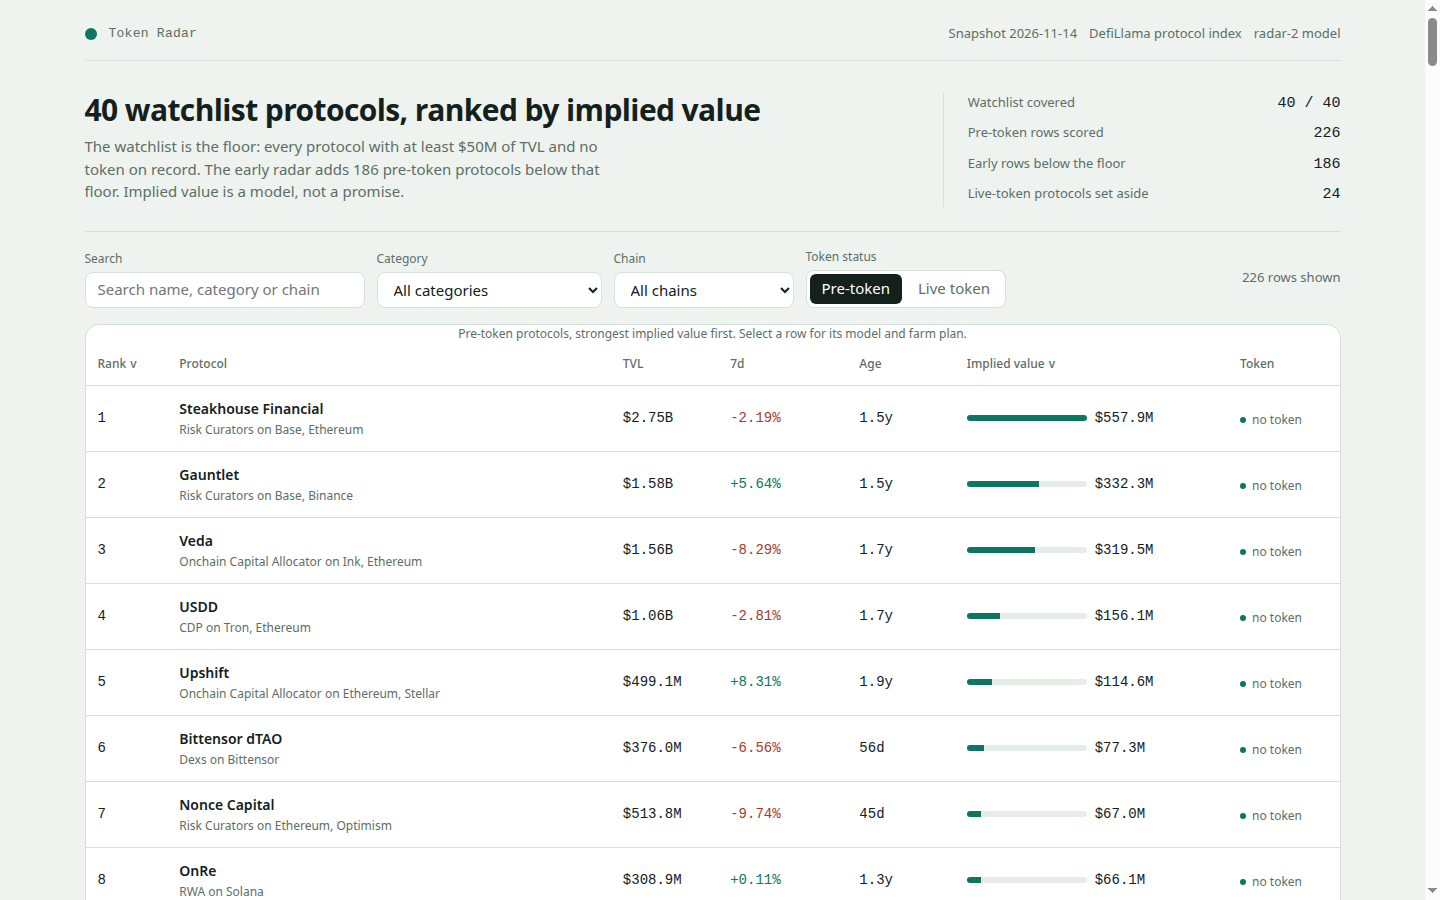
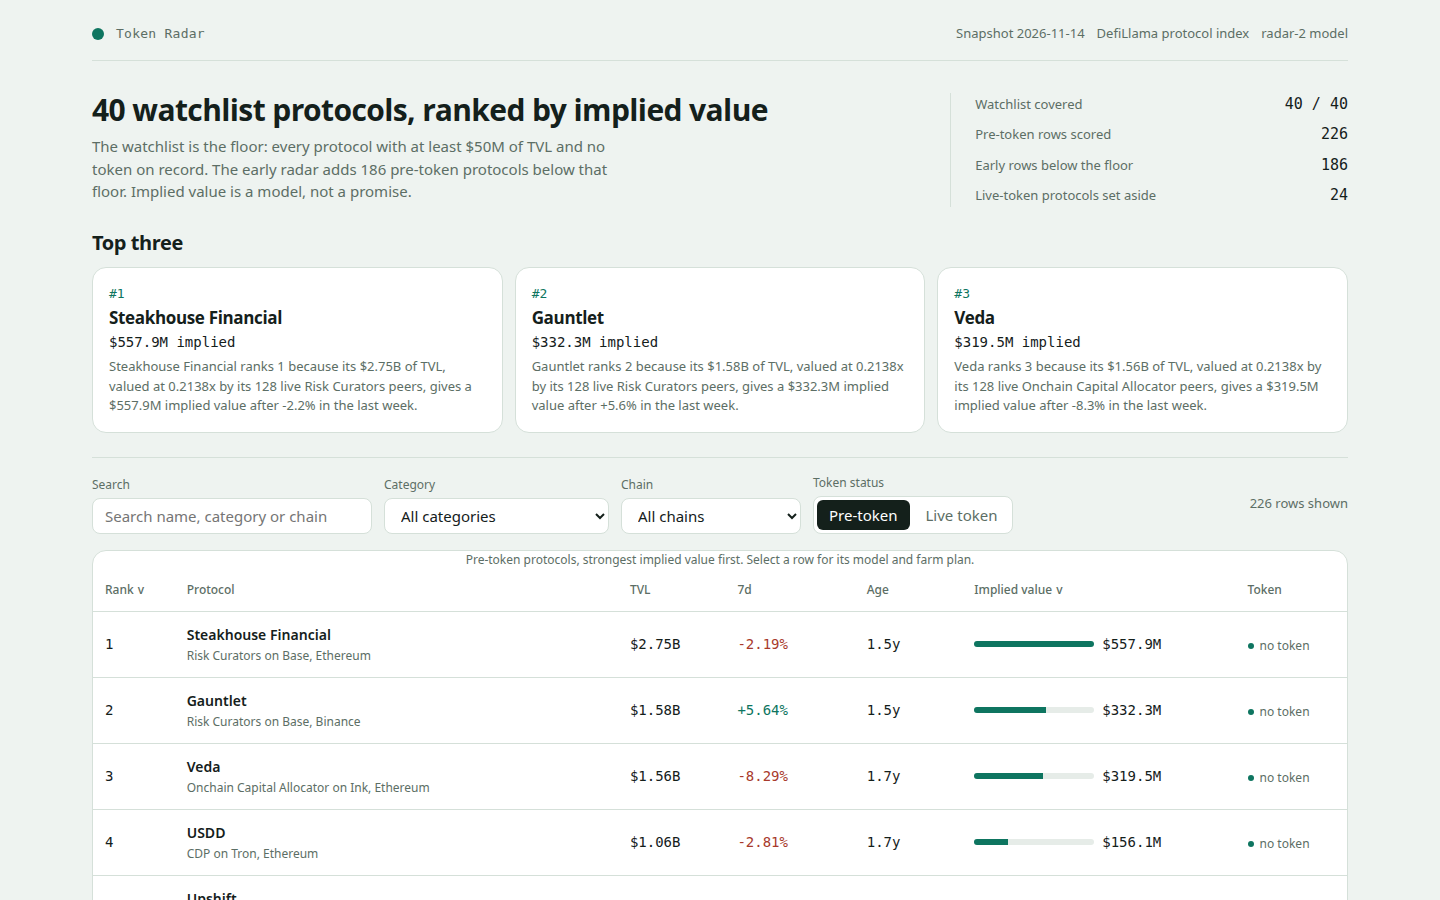
token-radar-01: richer farm plans, top-three spotlight, per-row why
- Farm plans 7 -> 8 steps: category-specific action (14 rules covering
  Liquid Staking, Bridge, Dexs, Risk Curators, RWA, BTC, CeDeFi, Chain...)
  + category-specific weekly repeat + risk line sized from age/TVL/7d move.
- Board gets a top-three spotlight above the table, each card with its
  one-line reason.
- Drawer gets a one-line why for every row, derived from its own numbers
  (TVL, peer multiple, 7d change, maturity/growth multipliers).
- Model unchanged: same radar-2, same 226 rows, same implied values.

diff --git a/dashboard/app.js b/dashboard/app.js
@@ -46,6 +46,17 @@
     var chainMult = 1 + model.chain_step * Math.min(Math.max(chains - 1, 0), model.chain_max_extra);
     return Math.max(1, Math.round(row.tvl_usd * row.peer_multiple * growthMult * maturity * chainMult));
   }
+  /** One sentence that says why this row ranks where it does, from its own numbers. */
+  function whyLine(row) {
+    var week = row.change_7d === null || row.change_7d === undefined
+      ? 'a week with no recorded change'
+      : (row.change_7d >= 0 ? '+' : '') + row.change_7d.toFixed(1) + '% in the last week';
+    var s = row.name + ' ranks ' + row.rank + ' because its ' + money(row.tvl_usd) + ' of TVL, valued at ' + row.peer_multiple + 'x by its ' + row.peer_count + ' live ' + (row.category || 'Other') + ' peers, gives a ' + money(row.implied_value_usd) + ' implied value after ' + week + '.';
+    if (row.maturity_multiplier > 1) s += ' Its ' + row.age_days + ' days with no token multiply it by ' + row.maturity_multiplier + 'x.';
+    if (row.growth_multiplier > 1) s += ' Strong growth multiplies it by ' + row.growth_multiplier + 'x.';
+    if (row.growth_multiplier < 1) s += ' A shrinking week multiplies it by ' + row.growth_multiplier + 'x.';
+    return s;
+  }
 
   /** Tiny DOM builder: h('div', {cls, txt, onClick, ...attrs}, ...children). */
   function h(tag, props) {
@@ -88,16 +99,20 @@
     return 30;
   }
   var PLAN_RULES = [
+    { keys: ['liquid staking', 'staking pool'], make: function (nm, amt, ch) { return 'Stake $' + amt + " of the chain's staking asset through " + nm + ' on ' + ch + ' and hold the liquid staking receipt.'; } },
     { keys: ['lend', 'cdp', 'collateral'], make: function (nm, amt, ch) { return 'Supply $' + amt + ' of USDC to ' + nm + ' on ' + ch + ' and keep the position open.'; } },
-    { keys: ['dex', 'yield', 'leveraged farm'], make: function (nm, amt, ch) { return 'Provide $' + amt + ' of liquidity to ' + nm + "'s main pool on " + ch + ' and keep the position open.'; } },
+    { keys: ['dex', 'yield aggregator', 'leveraged farm', 'farm', 'liquidity manager'], make: function (nm, amt, ch) { return 'Provide $' + amt + ' of liquidity to ' + nm + "'s main pool on " + ch + ' and keep the position open.'; } },
     { keys: ['bridge'], make: function (nm, amt, ch) { return 'Bridge $' + amt + ' of USDC to ' + ch + ' through ' + nm + ' and use the bridged funds in its app.'; } },
-    { keys: ['staking', 'restak'], make: function (nm, amt, ch) { return 'Stake $' + amt + " of the chain's staking asset through " + nm + ' and keep the receipt.'; } },
-    { keys: ['perpetual', 'derivative'], make: function (nm, amt, ch) { return 'Deposit $' + amt + ' of USDC as margin on ' + nm + ' and open one small hedge.'; } },
+    { keys: ['restak', 'staking'], make: function (nm, amt, ch) { return 'Stake $' + amt + " of the chain's staking asset through " + nm + ' and keep the receipt.'; } },
+    { keys: ['perpetual', 'derivative', 'basis trading'], make: function (nm, amt, ch) { return 'Deposit $' + amt + ' of USDC as margin on ' + nm + ' and open one small hedge.'; } },
     { keys: ['prediction'], make: function (nm, amt, ch) { return 'Fund $' + amt + ' and place one market position on ' + nm + '.'; } },
-    { keys: ['curator', 'allocator'], make: function (nm, amt, ch) { return 'Deposit $' + amt + ' into a ' + nm + ' vault on ' + ch + ' and keep the shares.'; } },
+    { keys: ['curator', 'allocator', 'aggregator'], make: function (nm, amt, ch) { return 'Deposit $' + amt + ' into a ' + nm + ' vault on ' + ch + ' and keep the shares.'; } },
     { keys: ['stable'], make: function (nm, amt, ch) { return 'Mint or deposit $' + amt + ' of the stable asset through ' + nm + ' on ' + ch + '.'; } },
     { keys: ['rwa'], make: function (nm, amt, ch) { return 'Mint $' + amt + " of the protocol's yield asset on " + ch + ' and hold it.'; } },
-    { keys: ['insurance'], make: function (nm, amt, ch) { return 'Buy $' + amt + ' of cover from ' + nm + ' on ' + ch + ' and keep the policy.'; } }
+    { keys: ['insurance'], make: function (nm, amt, ch) { return 'Buy $' + amt + ' of cover from ' + nm + ' on ' + ch + ' and keep the policy.'; } },
+    { keys: ['btc', 'bitcoin'], make: function (nm, amt, ch) { return 'Deposit $' + amt + ' of BTC into ' + nm + ' on ' + ch + ' and hold the receipt.'; } },
+    { keys: ['cedefi'], make: function (nm, amt, ch) { return 'Deposit $' + amt + ' into a ' + nm + ' vault on ' + ch + ' and keep the shares.'; } },
+    { keys: ['chain'], make: function (nm, amt, ch) { return 'Bridge $' + amt + ' of USDC to ' + nm + ' and use one app on the chain.'; } }
   ];
   function actionLine(p, amt, ch) {
     var c = (p.category || '').toLowerCase();
@@ -106,6 +121,40 @@
       if (rule.keys.some(function (k) { return c.indexOf(k) >= 0; })) return rule.make(p.name, amt, ch);
     }
     return 'Deposit $' + amt + ' of USDC into ' + p.name + ' on ' + ch + ' and keep the position open.';
+  }
+  var WEEKLY_RULES = [
+    { keys: ['liquid staking', 'staking pool', 'restak', 'staking'], make: function (nm) { return 'Claim the staking rewards on ' + nm + ' and restake them, so the position compounds.'; } },
+    { keys: ['lend', 'cdp', 'collateral'], make: function (nm, amt) { return 'Repay a slice of the borrow on ' + nm + ' and re-supply $' + amt + ', so the loan stays healthy and the activity repeats.'; } },
+    { keys: ['dex', 'yield aggregator', 'leveraged farm', 'farm', 'liquidity manager'], make: function (nm) { return 'Swap a small amount through ' + nm + "'s pool and top up the liquidity, so the position earns fees again."; } },
+    { keys: ['bridge'], make: function (nm, amt) { return 'Bridge $' + amt + ' back through ' + nm + ' and use the funds in a second app, so the bridge sees repeat use.'; } },
+    { keys: ['perpetual', 'derivative', 'basis trading'], make: function (nm) { return 'Close the hedge on ' + nm + ' and reopen it at the new funding rate, so the position stays active.'; } },
+    { keys: ['prediction'], make: function (nm) { return 'Settle one market on ' + nm + ' and open another, so the account keeps a live position.'; } },
+    { keys: ['curator', 'allocator', 'aggregator', 'cedefi'], make: function (nm) { return "Check " + nm + "'s vault allocation and rebalance if it drifted, so the shares keep earning."; } },
+    { keys: ['stable', 'rwa'], make: function (nm) { return 'Check the peg and the yield on ' + nm + ' and top up if the rate moved.'; } },
+    { keys: ['insurance'], make: function (nm) { return "Check the cover's expiry on " + nm + ' and renew it before it lapses.'; } },
+    { keys: ['btc', 'bitcoin'], make: function (nm) { return 'Check the BTC peg on ' + nm + ' and the yield it pays, and top up if the rate moved.'; } },
+    { keys: ['chain'], make: function (nm) { return 'Use one more app on ' + nm + ' this week, so the chain sees repeat activity.'; } }
+  ];
+  function weeklyLine(p, amt, ch) {
+    var c = (p.category || '').toLowerCase();
+    for (var i = 0; i < WEEKLY_RULES.length; i++) {
+      var rule = WEEKLY_RULES[i];
+      if (rule.keys.some(function (k) { return c.indexOf(k) >= 0; })) return rule.make(p.name, amt, ch);
+    }
+    return 'Make one qualifying action each week, such as a deposit, a borrow, a swap or a vote.';
+  }
+  function riskLine(p) {
+    var age = p.age_days;
+    if (age !== null && age !== undefined && age < 90) {
+      return 'This protocol is young (' + age + ' days on record): size the position small, verify its audit before adding funds, and never use leverage.';
+    }
+    if (p.change_7d !== null && p.change_7d !== undefined && p.change_7d <= -20) {
+      return 'TVL fell ' + Math.abs(p.change_7d).toFixed(1) + '% in a week: check whether the drop is an outflow or a price move before adding funds.';
+    }
+    if (p.tvl_usd >= 1e9) {
+      return 'At $' + (p.tvl_usd / 1e9).toFixed(1) + 'B of TVL the position is liquid, but any airdrop is split across many farmers: size for the yield, not the airdrop.';
+    }
+    return 'Size the position so a 50% drawdown costs less than a week of income, and never borrow to farm.';
   }
   function renderStep(step) {
     var s = step.text + ' Cost: ' + step.cost + '. Time: ' + step.time + '.';
@@ -120,10 +169,11 @@
     return [
       { text: 'Use a fresh wallet that holds only the funds you plan to farm, and keep its seed phrase offline.', cost: 'under $3 of gas for the first transaction', time: '5 minutes' },
       { text: actionLine(p, amt, ch), cost: '$' + amt + ' of capital and about $' + (amt >= 150 ? 8 : 4) + ' of gas', time: '15 minutes to set up' },
-      { text: 'Make one qualifying action each week, such as a deposit, a borrow, a swap or a vote.', cost: 'about $2 of gas a week', time: '10 minutes a week' },
+      { text: weeklyLine(p, amt, ch), cost: 'about $2 of gas a week', time: '10 minutes a week' },
       { text: 'Hold the position for at least ' + hold + ' days so the activity is counted in more than one snapshot.', cost: 'the $' + amt + ' stays in the position', time: hold + ' days' },
       { text: "Before you withdraw, open the protocol's own points or rewards page and claim only from the link it publishes.", cost: 'no fee to check, and never pay to claim', time: '10 minutes' },
       { text: 'Write the wallet, the dates and every transaction in a farm log so you can repeat the position or unwind it.', cost: 'nothing but the log', time: '5 minutes' },
+      { text: riskLine(p), cost: 'nothing to check, and it caps what you stake', time: '10 minutes before you add funds' },
       { text: 'When you exit, withdraw in two parts a day apart and check the position\'s value after each part, so a failed withdrawal is caught while half the funds are still in.', cost: 'about $4 of gas for the two withdrawals', time: '10 minutes over 2 days' }
     ].map(renderStep);
   }
@@ -199,6 +249,24 @@
         h('div', { cls: 'stat' }, h('span', { txt: 'Early rows below the floor' }), h('b', { txt: String(DATA.early_size) })),
         h('div', { cls: 'stat' }, h('span', { txt: 'Live-token protocols set aside' }), h('b', { txt: String(DATA.live_size) }))
       )
+    );
+  }
+  /** The top three as cards, each with its one-line reason, above the table. */
+  function spotlight() {
+    var top = DATA.rows.slice(0, 3);
+    return h('section', { cls: 'spot', 'aria-label': 'Top three' },
+      h('h2', { txt: 'Top three' }),
+      h('div', { cls: 'spot-grid' }, top.map(function (row) {
+        var why = whyLine(row).split('. ')[0] + '.';
+        return h('article', { cls: 'spot-card', tabindex: '0',
+          onClick: function () { openDrawer(row.slug); },
+          onKeydown: function (e) { if (e.key === 'Enter' || e.key === ' ') { e.preventDefault(); openDrawer(row.slug); } } },
+          h('span', { cls: 'spot-rank', txt: '#' + row.rank }),
+          h('h3', { txt: row.name }),
+          h('p', { cls: 'spot-val', txt: money(row.implied_value_usd) + ' implied' }),
+          h('p', { cls: 'spot-why', txt: why })
+        );
+      }))
     );
   }
 
@@ -377,6 +445,7 @@
         h('div', null, h('span', { txt: 'Maturity multiplier' }), h('b', { cls: 'fig', txt: String(row.maturity_multiplier) })),
         h('div', null, h('span', { txt: 'Implied value' }), h('b', { cls: 'fig', txt: money(row.implied_value_usd) }))
       ),
+      h('p', { cls: 'why', txt: whyLine(row) }),
       h('p', { cls: 'fine', txt: 'Model ' + DATA.model_version + ': the same function scores every protocol. The page recomputes this row as ' + money(again) + check + ' This is an estimate, not a price.' })
     ));
     drawer.appendChild(h('section', { cls: 'drawer-sec' },
@@ -400,6 +469,7 @@
     var shell = h('div', { cls: 'wrap' });
     shell.appendChild(masthead());
     shell.appendChild(intro());
+    shell.appendChild(spotlight());
     shell.appendChild(toolbar());
     shell.appendChild(view.tab === 'pre' ? boardTable() : liveTable());
     if (view.tab === 'pre') shell.appendChild(howtoPanel());

diff --git a/lib/model.ts b/lib/model.ts
@@ -409,15 +409,20 @@ interface ActionRule {
 /**
  * The category's one action, as a table instead of a chain of branches: the
  * first rule whose keyword appears in the category wins. The fallback at the
- * end is a plain deposit, for categories no rule names.
+ * end is a plain deposit, for categories no rule names. Every rule names the
+ * chain and the capital, so the step is an instruction, not a slogan.
  */
 const ACTION_RULES: ActionRule[] = [
+  {
+    keys: ['liquid staking', 'staking pool'],
+    line: (n, a, c) => `Stake $${a} of the chain's staking asset through ${n} on ${c} and hold the liquid staking receipt.`,
+  },
   {
     keys: ['lend', 'cdp', 'collateral'],
     line: (n, a, c) => `Supply $${a} of USDC to ${n} on ${c} and keep the position open.`,
   },
   {
-    keys: ['dex', 'yield', 'leveraged farm'],
+    keys: ['dex', 'yield aggregator', 'leveraged farm', 'farm', 'liquidity manager'],
     line: (n, a, c) => `Provide $${a} of liquidity to ${n}'s main pool on ${c} and keep the position open.`,
   },
   {
@@ -425,11 +430,11 @@ const ACTION_RULES: ActionRule[] = [
     line: (n, a, c) => `Bridge $${a} of USDC to ${c} through ${n} and use the bridged funds in its app.`,
   },
   {
-    keys: ['staking', 'restak'],
+    keys: ['restak', 'staking'],
     line: (n, a, c) => `Stake $${a} of the chain's staking asset through ${n} and keep the receipt.`,
   },
   {
-    keys: ['perpetual', 'derivative'],
+    keys: ['perpetual', 'derivative', 'basis trading'],
     line: (n, a, c) => `Deposit $${a} of USDC as margin on ${n} and open one small hedge.`,
   },
   {
@@ -437,7 +442,7 @@ const ACTION_RULES: ActionRule[] = [
     line: (n, a, c) => `Fund $${a} and place one market position on ${n}.`,
   },
   {
-    keys: ['curator', 'allocator'],
+    keys: ['curator', 'allocator', 'aggregator'],
     line: (n, a, c) => `Deposit $${a} into a ${n} vault on ${c} and keep the shares.`,
   },
   {
@@ -452,6 +457,18 @@ const ACTION_RULES: ActionRule[] = [
     keys: ['insurance'],
     line: (n, a, c) => `Buy $${a} of cover from ${n} on ${c} and keep the policy.`,
   },
+  {
+    keys: ['btc', 'bitcoin'],
+    line: (n, a, c) => `Deposit $${a} of BTC into ${n} on ${c} and hold the receipt.`,
+  },
+  {
+    keys: ['cedefi'],
+    line: (n, a, c) => `Deposit $${a} into a ${n} vault on ${c} and keep the shares.`,
+  },
+  {
+    keys: ['chain'],
+    line: (n, a, c) => `Bridge $${a} of USDC to ${n} and use one app on the chain.`,
+  },
 ];
 
 /** The category's action line, or the plain-deposit fallback. */
@@ -463,17 +480,109 @@ function actionLine(p: SnapshotProtocol, amount: number, chain: string): string 
   return `Deposit $${amount} of USDC into ${p.name} on ${chain} and keep the position open.`;
 }
 
+/** One category rule for the weekly repeat: what to do each week to stay active. */
+interface WeeklyRule {
+  keys: string[]; // lowercase substrings of the category
+  line: (name: string, amount: number, chain: string) => string;
+}
+
+const WEEKLY_RULES: WeeklyRule[] = [
+  {
+    keys: ['liquid staking', 'staking pool', 'restak', 'staking'],
+    line: (n) => `Claim the staking rewards on ${n} and restake them, so the position compounds.`,
+  },
+  {
+    keys: ['lend', 'cdp', 'collateral'],
+    line: (n, a) => `Repay a slice of the borrow on ${n} and re-supply $${a}, so the loan stays healthy and the activity repeats.`,
+  },
+  {
+    keys: ['dex', 'yield aggregator', 'leveraged farm', 'farm', 'liquidity manager'],
+    line: (n) => `Swap a small amount through ${n}'s pool and top up the liquidity, so the position earns fees again.`,
+  },
+  {
+    keys: ['bridge'],
+    line: (n, a) => `Bridge $${a} back through ${n} and use the funds in a second app, so the bridge sees repeat use.`,
+  },
+  {
+    keys: ['perpetual', 'derivative', 'basis trading'],
+    line: (n) => `Close the hedge on ${n} and reopen it at the new funding rate, so the position stays active.`,
+  },
+  {
+    keys: ['prediction'],
+    line: (n) => `Settle one market on ${n} and open another, so the account keeps a live position.`,
+  },
+  {
+    keys: ['curator', 'allocator', 'aggregator', 'cedefi'],
+    line: (n) => `Check ${n}'s vault allocation and rebalance if it drifted, so the shares keep earning.`,
+  },
+  {
+    keys: ['stable', 'rwa'],
+    line: (n) => `Check the peg and the yield on ${n} and top up if the rate moved.`,
+  },
+  {
+    keys: ['insurance'],
+    line: (n) => `Check the cover's expiry on ${n} and renew it before it lapses.`,
+  },
+  {
+    keys: ['btc', 'bitcoin'],
+    line: (n) => `Check the BTC peg on ${n} and the yield it pays, and top up if the rate moved.`,
+  },
+  {
+    keys: ['chain'],
+    line: (n) => `Use one more app on ${n} this week, so the chain sees repeat activity.`,
+  },
+];
+
+/** The category's weekly repeat, or the plain qualifying-action fallback. */
+function weeklyLine(p: SnapshotProtocol, amount: number, chain: string): string {
+  const lowered = (p.category ?? '').toLowerCase();
+  for (const rule of WEEKLY_RULES) {
+    if (rule.keys.some((k) => lowered.includes(k))) return rule.line(p.name, amount, chain);
+  }
+  return 'Make one qualifying action each week, such as a deposit, a borrow, a swap or a vote.';
+}
+
 /**
- * A protocol's farm plan: seven steps, each an action with a cost and a time,
- * derived from the protocol's own record (category, chains, TVL, age) — never
- * from a hand-written list of names. The last step is the exit: how to unwind
- * safely and what to check before claiming anything.
+ * The risk line: sized from the protocol's own record. A young protocol gets
+ * a size-and-audit warning; a large one gets a note that any airdrop is split
+ * across many farmers; a sharp weekly fall gets a check-the-drop warning.
+ */
+function riskLine(p: SnapshotProtocol, age: number | null): string {
+  if (age !== null && age < 90) {
+    return (
+      `This protocol is young (${age} days on record): size the position small, ` +
+      `verify its audit before adding funds, and never use leverage.`
+    );
+  }
+  if (p.change_7d !== null && p.change_7d <= -20) {
+    return (
+      `TVL fell ${Math.abs(p.change_7d).toFixed(1)}% in a week: check whether the drop is an ` +
+      `outflow or a price move before adding funds.`
+    );
+  }
+  if (p.tvl_usd >= 1_000_000_000) {
+    return (
+      `At $${(p.tvl_usd / 1e9).toFixed(1)}B of TVL the position is liquid, but any airdrop is split ` +
+      `across many farmers: size for the yield, not the airdrop.`
+    );
+  }
+  return 'Size the position so a 50% drawdown costs less than a week of income, and never borrow to farm.';
+}
+
+/**
+ * A protocol's farm plan: eight steps, each an action with a cost and a time,
+ * derived from the protocol's own record (category, chains, TVL, age, weekly
+ * move) — never from a hand-written list of names. The action, the weekly
+ * repeat and the risk line all vary by category; the last step is the exit:
+ * how to unwind safely and what to check before claiming anything.
  */
 export function farmSteps(p: SnapshotProtocol, age: number | null): FarmStep[] {
   const chain = firstChain(p);
   const amount = stakeFor(p);
   const hold = holdFor(age);
   const action = actionLine(p, amount, chain);
+  const weekly = weeklyLine(p, amount, chain);
+  const risk = riskLine(p, age);
   const gasBig = amount >= 150 ? 8 : 4;
   return [
     {
@@ -489,7 +598,7 @@ export function farmSteps(p: SnapshotProtocol, age: number | null): FarmStep[] {
       time: '15 minutes to set up',
     },
     {
-      text: 'Make one qualifying action each week, such as a deposit, a borrow, a swap or a vote.',
+      text: weekly,
       cost: 'about $2 of gas a week',
       time: '10 minutes a week',
     },
@@ -511,6 +620,11 @@ export function farmSteps(p: SnapshotProtocol, age: number | null): FarmStep[] {
         'so you can repeat the position or unwind it.',
       cost: 'nothing but the log',
       time: '5 minutes',
+    },
+    {
+      text: risk,
+      cost: 'nothing to check, and it caps what you stake',
+      time: '10 minutes before you add funds',
     },
     {
       text:

diff --git a/dashboard/app.css b/dashboard/app.css
@@ -62,6 +62,19 @@ a { color: var(--brand); }
 .stat b { font-family: var(--type-fig); font-size: 15px; font-weight: 500; }
 .stat span { color: var(--faint); font-size: 13px; }
 
+.spot { padding-bottom: var(--g5); }
+.spot h2 { margin-bottom: var(--g3); }
+.spot-grid { display: grid; grid-template-columns: repeat(3, minmax(0, 1fr)); gap: var(--g3); }
+.spot-card {
+  background: var(--card); border: 1px solid var(--line); border-radius: var(--round-lg);
+  padding: var(--g4); display: grid; gap: var(--g1); cursor: pointer; align-content: start;
+}
+.spot-card:hover { border-color: var(--brand); }
+.spot-rank { font-family: var(--type-fig); font-size: 13px; color: var(--brand); }
+.spot-card h3 { font-size: 17px; }
+.spot-val { font-family: var(--type-fig); font-size: 14px; }
+.spot-why { color: var(--faint); font-size: 13px; }
+
 .toolbar { display: flex; flex-wrap: wrap; align-items: end; gap: var(--g3); padding: var(--g4) 0; border-top: 1px solid var(--line); }
 .ctl { display: grid; gap: var(--g1); }
 .ctl label { color: var(--faint); font-size: 12px; }
@@ -126,6 +139,7 @@ tbody tr[data-picked="true"] { background: color-mix(in srgb, var(--brand) 8%, v
 .breakdown { display: grid; gap: var(--g2); font-family: var(--type-fig); font-size: 13px; }
 .breakdown div { display: flex; justify-content: space-between; gap: var(--g3); }
 .breakdown span { color: var(--faint); }
+.why { margin-top: var(--g3); font-size: 14px; }
 .plan { margin: 0; padding-left: var(--g5); display: grid; gap: var(--g3); }
 .plan li { padding-left: var(--g1); }
 .plan b { display: block; font-weight: 500; }
@@ -134,6 +148,7 @@ tbody tr[data-picked="true"] { background: color-mix(in srgb, var(--brand) 8%, v
 @media (max-width: 900px) {
   .wrap { padding: var(--g4); }
   .intro { grid-template-columns: 1fr; gap: var(--g4); }
+  .spot-grid { grid-template-columns: 1fr; }
   .stats { border-left: 0; border-top: 1px solid var(--line); padding-left: 0; padding-top: var(--g4); }
   .ctl input { min-width: 0; width: 100%; }
 }

diff --git a/README.md b/README.md
@@ -4,7 +4,7 @@
 [![rank](https://make.fun/badge/token-radar-01/Skyzee2704/token-radar-01/rank.svg)](https://make.fun/bounty/token-radar-01/leaderboard?utm_source=github&utm_medium=readme&utm_campaign=token-radar-01)
 [![reward](https://make.fun/badge/token-radar-01/Skyzee2704/token-radar-01/reward.svg)](https://make.fun/bounty/token-radar-01?utm_source=github&utm_medium=readme&utm_campaign=token-radar-01)
 
-Token launch radar: ranks pre-token DeFi protocols by implied launch value from a sealed DefiLlama snapshot, with a sortable dashboard, per-protocol model breakdowns and 7-step farm plans.
+Token launch radar: ranks pre-token DeFi protocols by implied launch value from a sealed DefiLlama snapshot, with a sortable dashboard, a top-three spotlight, per-protocol model breakdowns with a one-line reason for each rank, and 8-step farm plans.
 
 ## Run it
 
